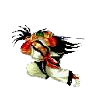
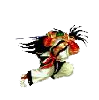
添加flip canvas

Changed region(s): [[0.1212, 0.24, 0.9091, 0.87]]

diff --git a/打飞机/guagame/gua_animation.js b/打飞机/guagame/gua_animation.js
@@ -1,29 +1,78 @@
 class GuaAnimation {
     constructor(game) {
         this.game = game
-        this.frames = []
+        this.animations = {
+            idle: [],
+            run: [],
+        }
         for (var i = 1; i < 7; i++) {
-            var name = 'w' + i.toString()
+            var name = 'run' + i.toString()
             log('name', name)
             var t = game.textureByName(name)
-            this.frames.push(t)
+            this.animations['run'].push(t)
         }
-        this.texture = this.frames[0]
+        for (var i = 1; i < 7; i++) {
+            var name = 'idle' + i.toString()
+            log('name', name)
+            var t = game.textureByName(name)
+            this.animations['idle'].push(t)
+        }
+        this.animationName = 'idle'
+        this.texture = this.frames()[0]
+        this.w = this.texture.width
+        this.h = this.texture.height
         this.frameIndex = 0
         this.frameCount = 5
+        //
+        this.flipX = false
     }
     static new(game) {
         return new this(game)
+    }
+    frames() {
+        retrurn this.animations[this.animationName]
     }
     update() {
         this.frameCount--
         if (this.frameCount == 0) {
             this.frameCount = 5
-            this.frameIndex = (this.frameIndex + 1) % this.frames.length
-            this.texture = this.frames[this.frameIndex]
+            this.frameIndex = (this.frameIndex + 1) % this.frames().length
+            this.texture = this.frames()[this.frameIndex]
         }
     }
     draw() {
-        this.game.drawImage(this)
+        context = this.game.context
+        if (this.flipX) {
+            context.save()
+            // Set the origin to the center of the image
+
+            var x = this.x + this.w/2
+            context.translate(x, 0)
+            context.scale(-1, 1)
+            context.translate(-x, 0)
+
+            // Draw the image
+            context.drawImage(this.texture, this.x, this.y)
+            context.restore()
+        }else {
+            context.drawImage(this.texture, this.x, this.y)
+        }
+
+    }
+    move(x, keyStatus) {
+        this.flipX = x < 0
+        log('keyStatus', status)
+        var animationNames = {
+            down: 'run',
+            up: 'idle',
+        }
+        var name = animationNames[keystatus]
+        this.changeAnimation(name)
+
+
+        this.x += x
+    }
+    changeAnimation(name) {
+        this.animationName = name
     }
 }

diff --git a/打飞机/guagame/gua_game.js b/打飞机/guagame/gua_game.js
@@ -11,11 +11,11 @@ class GuaGame {
         this.context = this.canvas.getContext('2d')
 
         window.addEventListener('keydown', event=>{
-            this.keydowns[event.key] = true
+            this.keydowns[event.key] = 'down'
         })
         var self = this//jiu yu fa
         window.addEventListener('keyup', function(event) {
-            self.keydowns[event.key] = false
+            self.keydowns[event.key] = 'up'
         })
         this.init()
     }
@@ -45,9 +45,14 @@ class GuaGame {
         var actions = Object.keys(this.actions)
         for (var i = 0; i < actions.length; i++) {
             var key = actions[i]
-            if(this.keydowns[key]) {
+            var status = g.keydowns[key]
+            if(status == 'down') {
                 //如果按键被按下， 调用注册用的action
-                this.actions[key]()
+                this.actions[key]('down')
+            }else if (status == 'up') {
+                this.actions[key]('up')
+                //delete this key`s status
+                this.keydowns[key] = null
             }
         }
         //update

diff --git a/打飞机/scene/title/scene_title.js b/打飞机/scene/title/scene_title.js
@@ -27,10 +27,19 @@ class SceneTitle extends GuaScene {
         var w = GuaAnimation.new(game)
         w.x = 100
         w.y = 200
+        this.w = w
         this.addElement(w)
-
+        this.setupInputs()
     }
-
+    setupInputs() {
+        var self = this
+        this.game.registerAction('a', function (keyStatus) {
+            self.w.move(-5, keyStatus)
+        })
+        this.game.registerAction('d', function (keyStatus) {
+            self.w.move(5, keyStatus)
+        })
+    }
     draw() {
         super.draw()
         // //draw label
